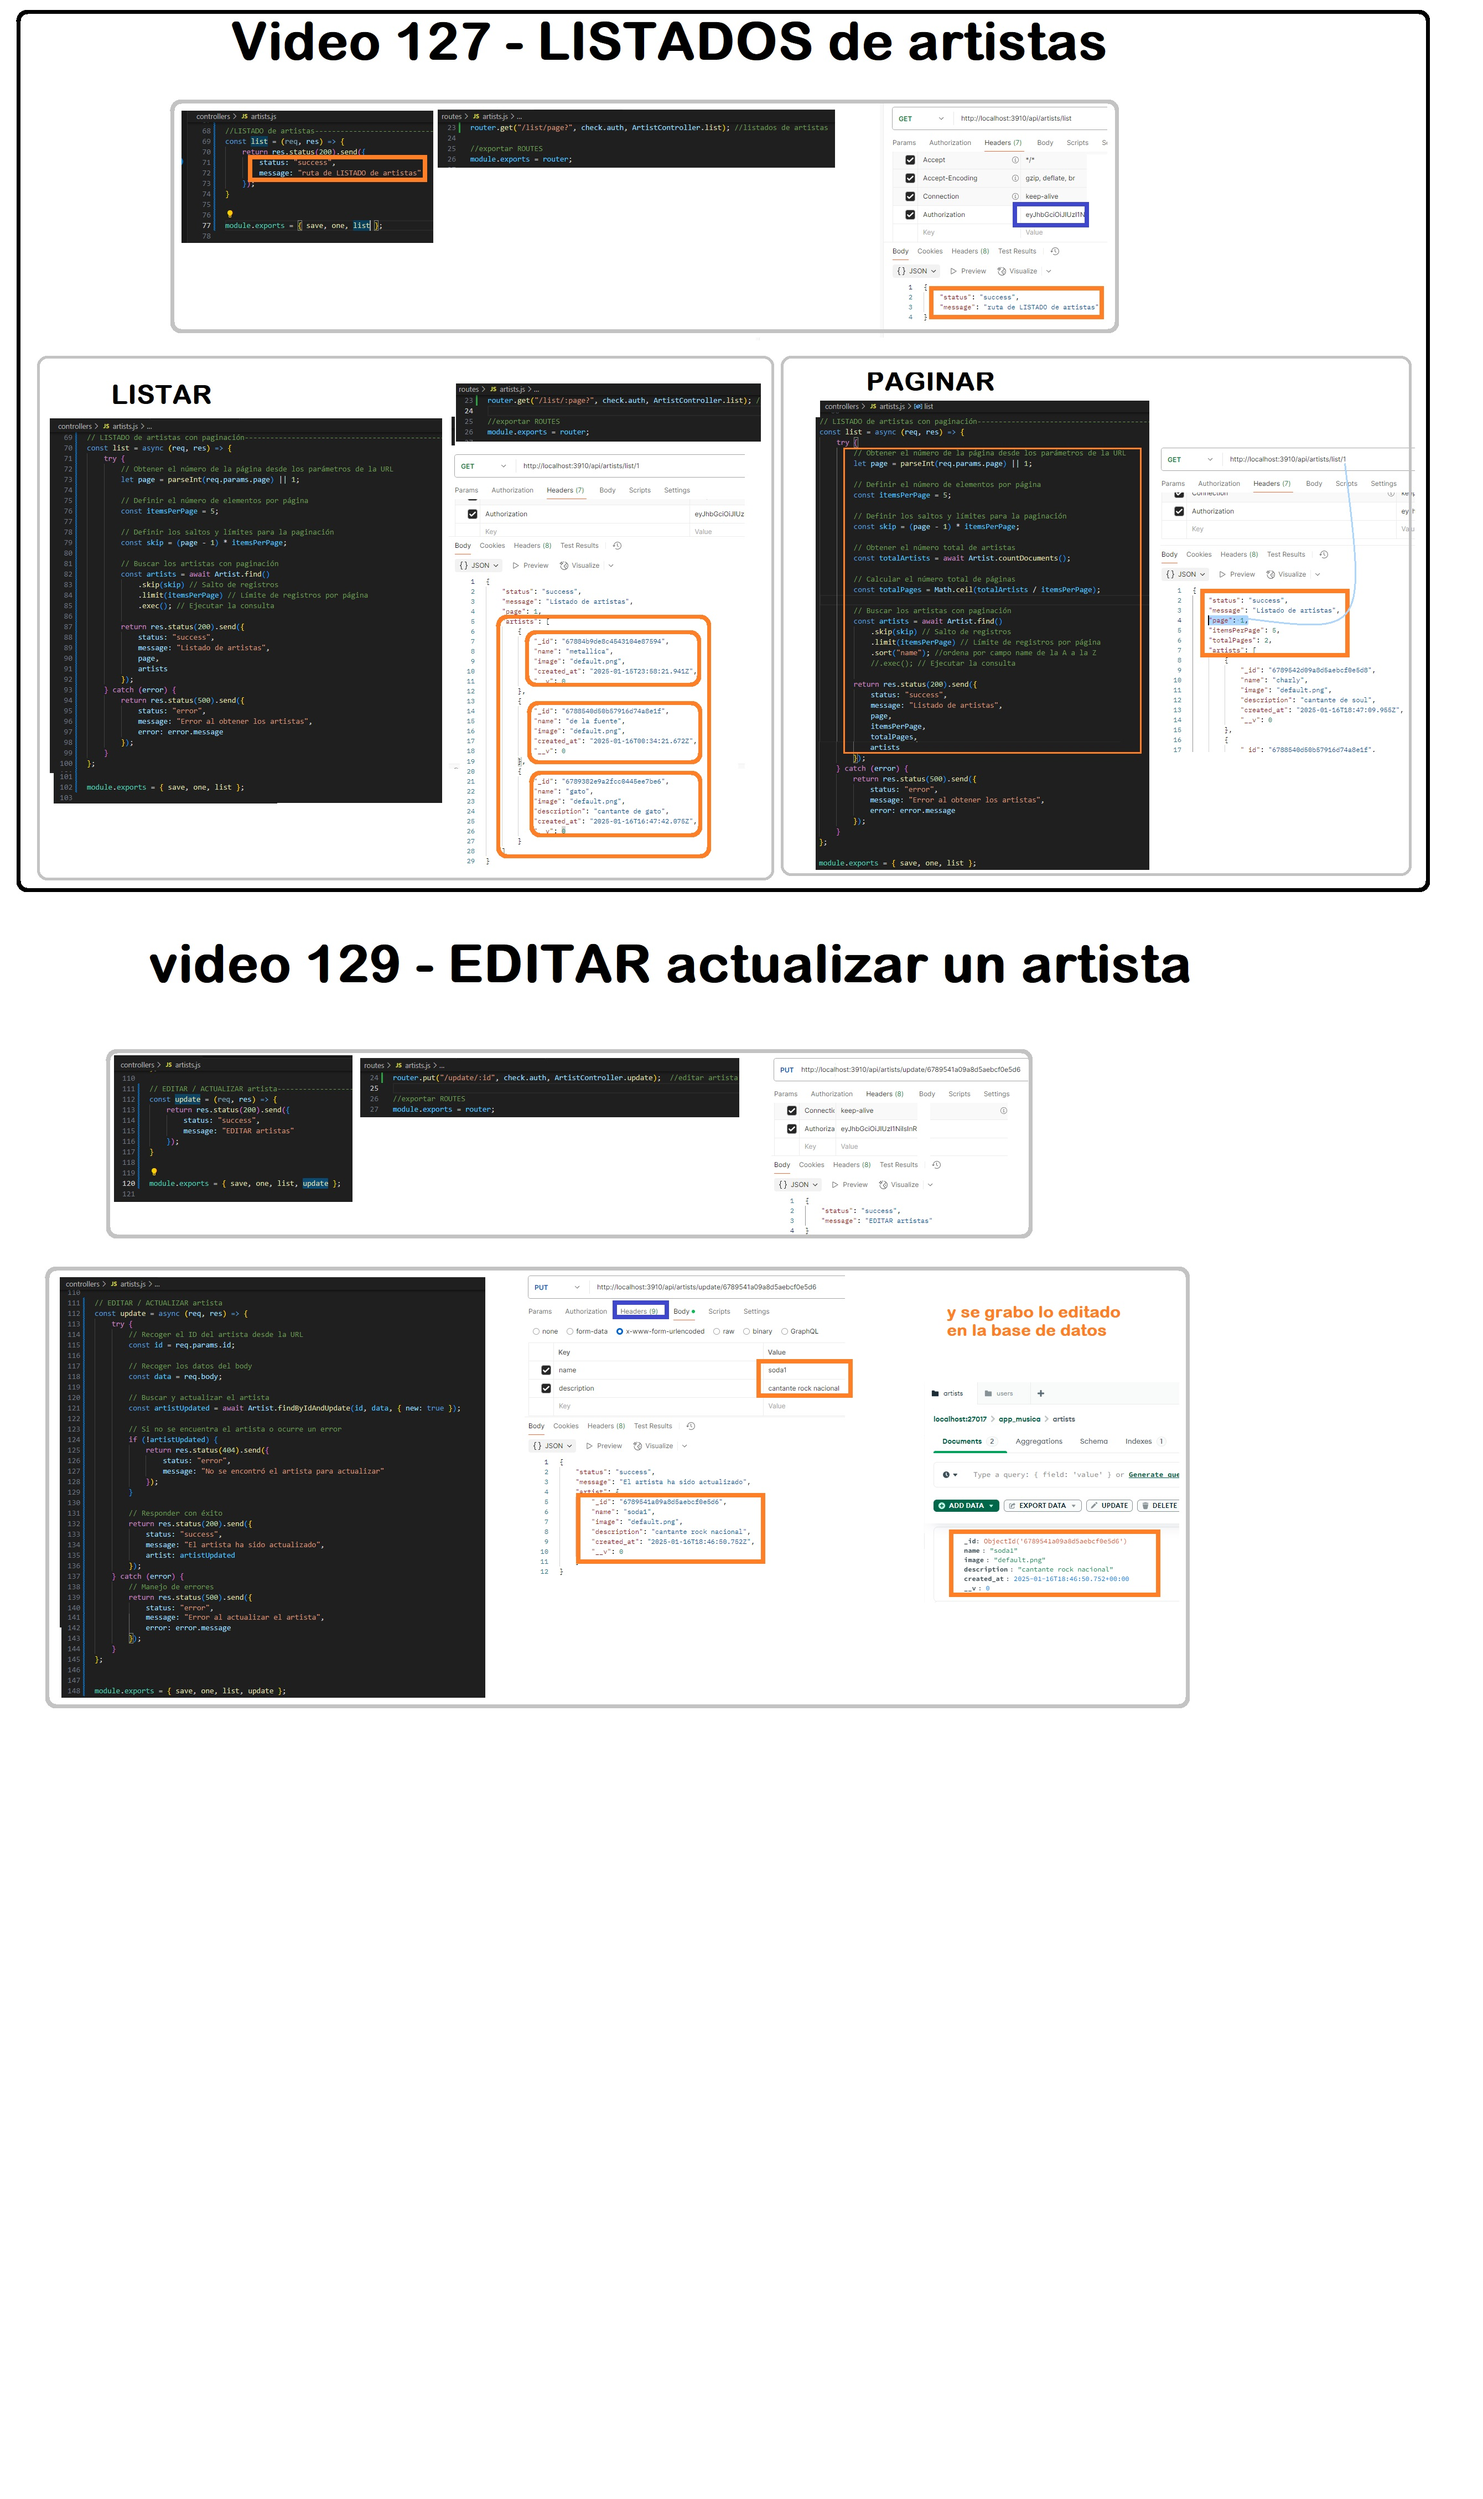
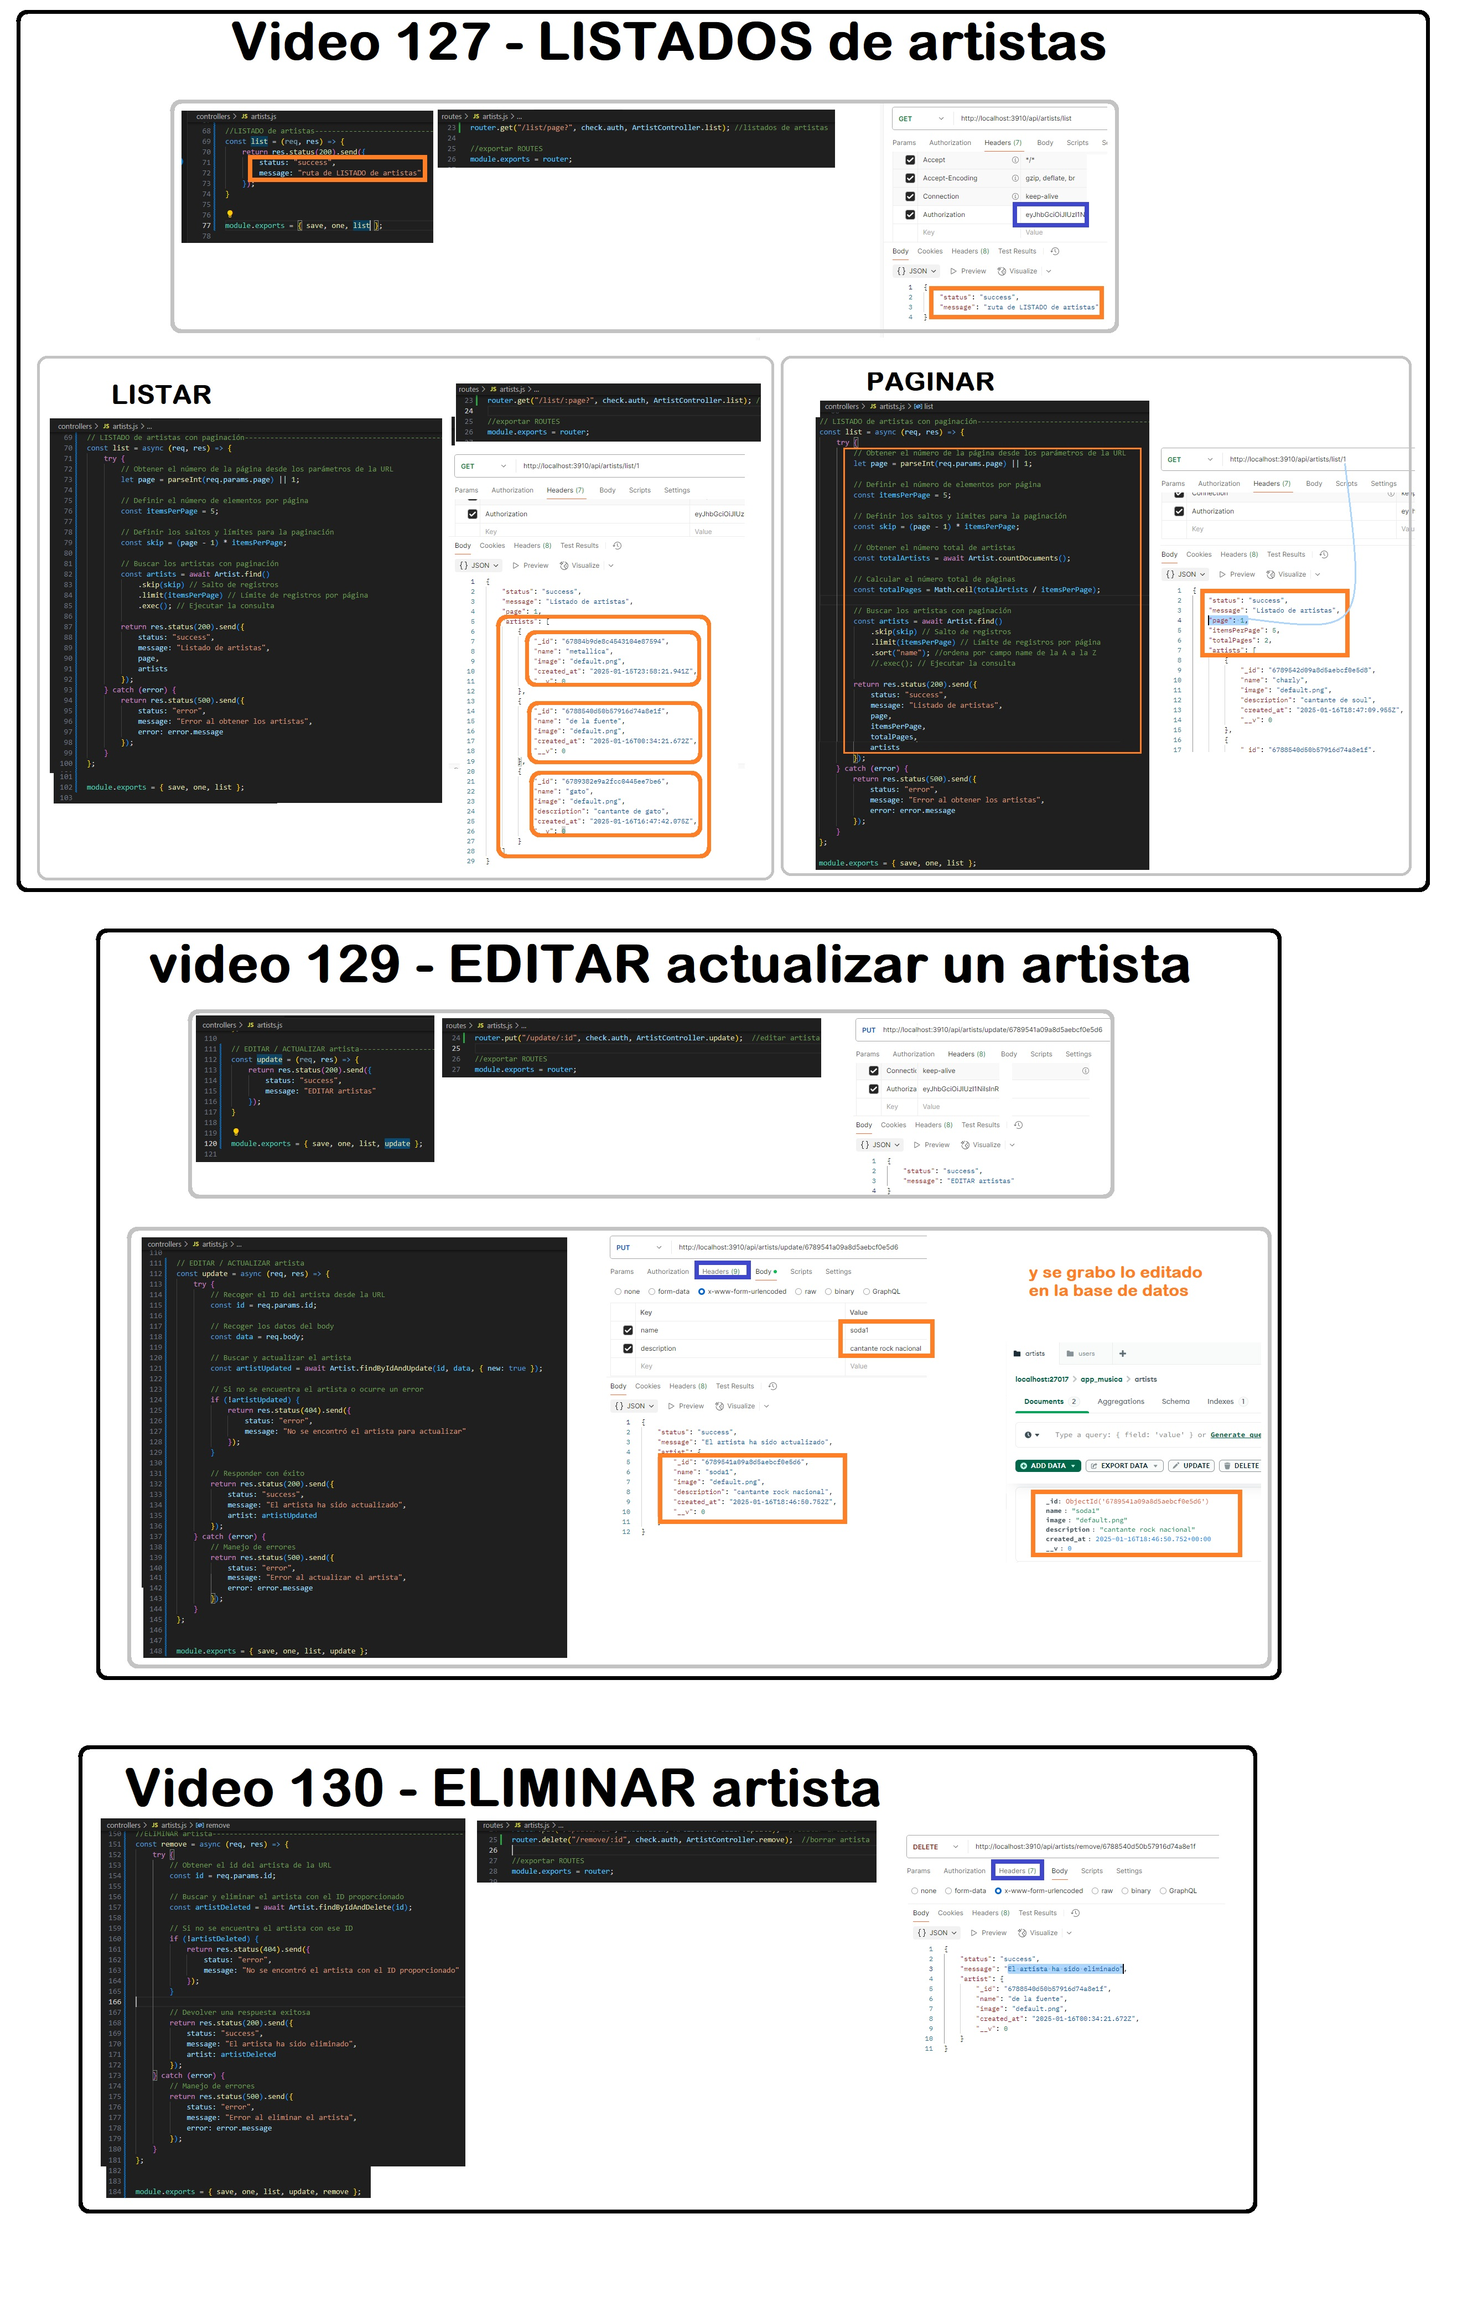
24° V.130 ELIMINAR artista

diff --git a/controllers/artists.js b/controllers/artists.js
@@ -108,7 +108,7 @@ const list = async (req, res) => {
     }
 };
 
-// EDITAR / ACTUALIZAR artista
+// EDITAR / ACTUALIZAR artista-----------------------------------------
 const update = async (req, res) => {
     try {
         // Recoger el ID del artista desde la URL
@@ -145,4 +145,41 @@ const update = async (req, res) => {
 };
 
 
-module.exports = { save, one, list, update };
+
+
+//ELIMINAR artista-----------------------------------------------------------
+const remove = async (req, res) => {
+    try {
+        // Obtener el id del artista de la URL
+        const id = req.params.id;
+
+        // Buscar y eliminar el artista con el ID proporcionado
+        const artistDeleted = await Artist.findByIdAndDelete(id);
+
+        // Si no se encuentra el artista con ese ID
+        if (!artistDeleted) {
+            return res.status(404).send({
+                status: "error",
+                message: "No se encontró el artista con el ID proporcionado"
+            });
+        }
+
+        // Devolver una respuesta exitosa
+        return res.status(200).send({
+            status: "success",
+            message: "El artista ha sido eliminado",
+            artist: artistDeleted
+        });
+    } catch (error) {
+        // Manejo de errores
+        return res.status(500).send({
+            status: "error",
+            message: "Error al eliminar el artista",
+            error: error.message
+        });
+    }
+};
+
+
+module.exports = { save, one, list, update, remove };
+ 

diff --git a/routes/artists.js b/routes/artists.js
@@ -22,6 +22,7 @@ router.post("/save", ArtistController.save);  //grabar artista
 router.get("/one/:id", check.auth, ArtistController.one); //obtener artista
 router.get("/list/:page?", check.auth, ArtistController.list); //listados de artistas
 router.put("/update/:id", check.auth, ArtistController.update);  //editar artista
+router.delete("/remove/:id", check.auth, ArtistController.remove);  //borrar artista
 
 //exportar ROUTES
 module.exports = router;
